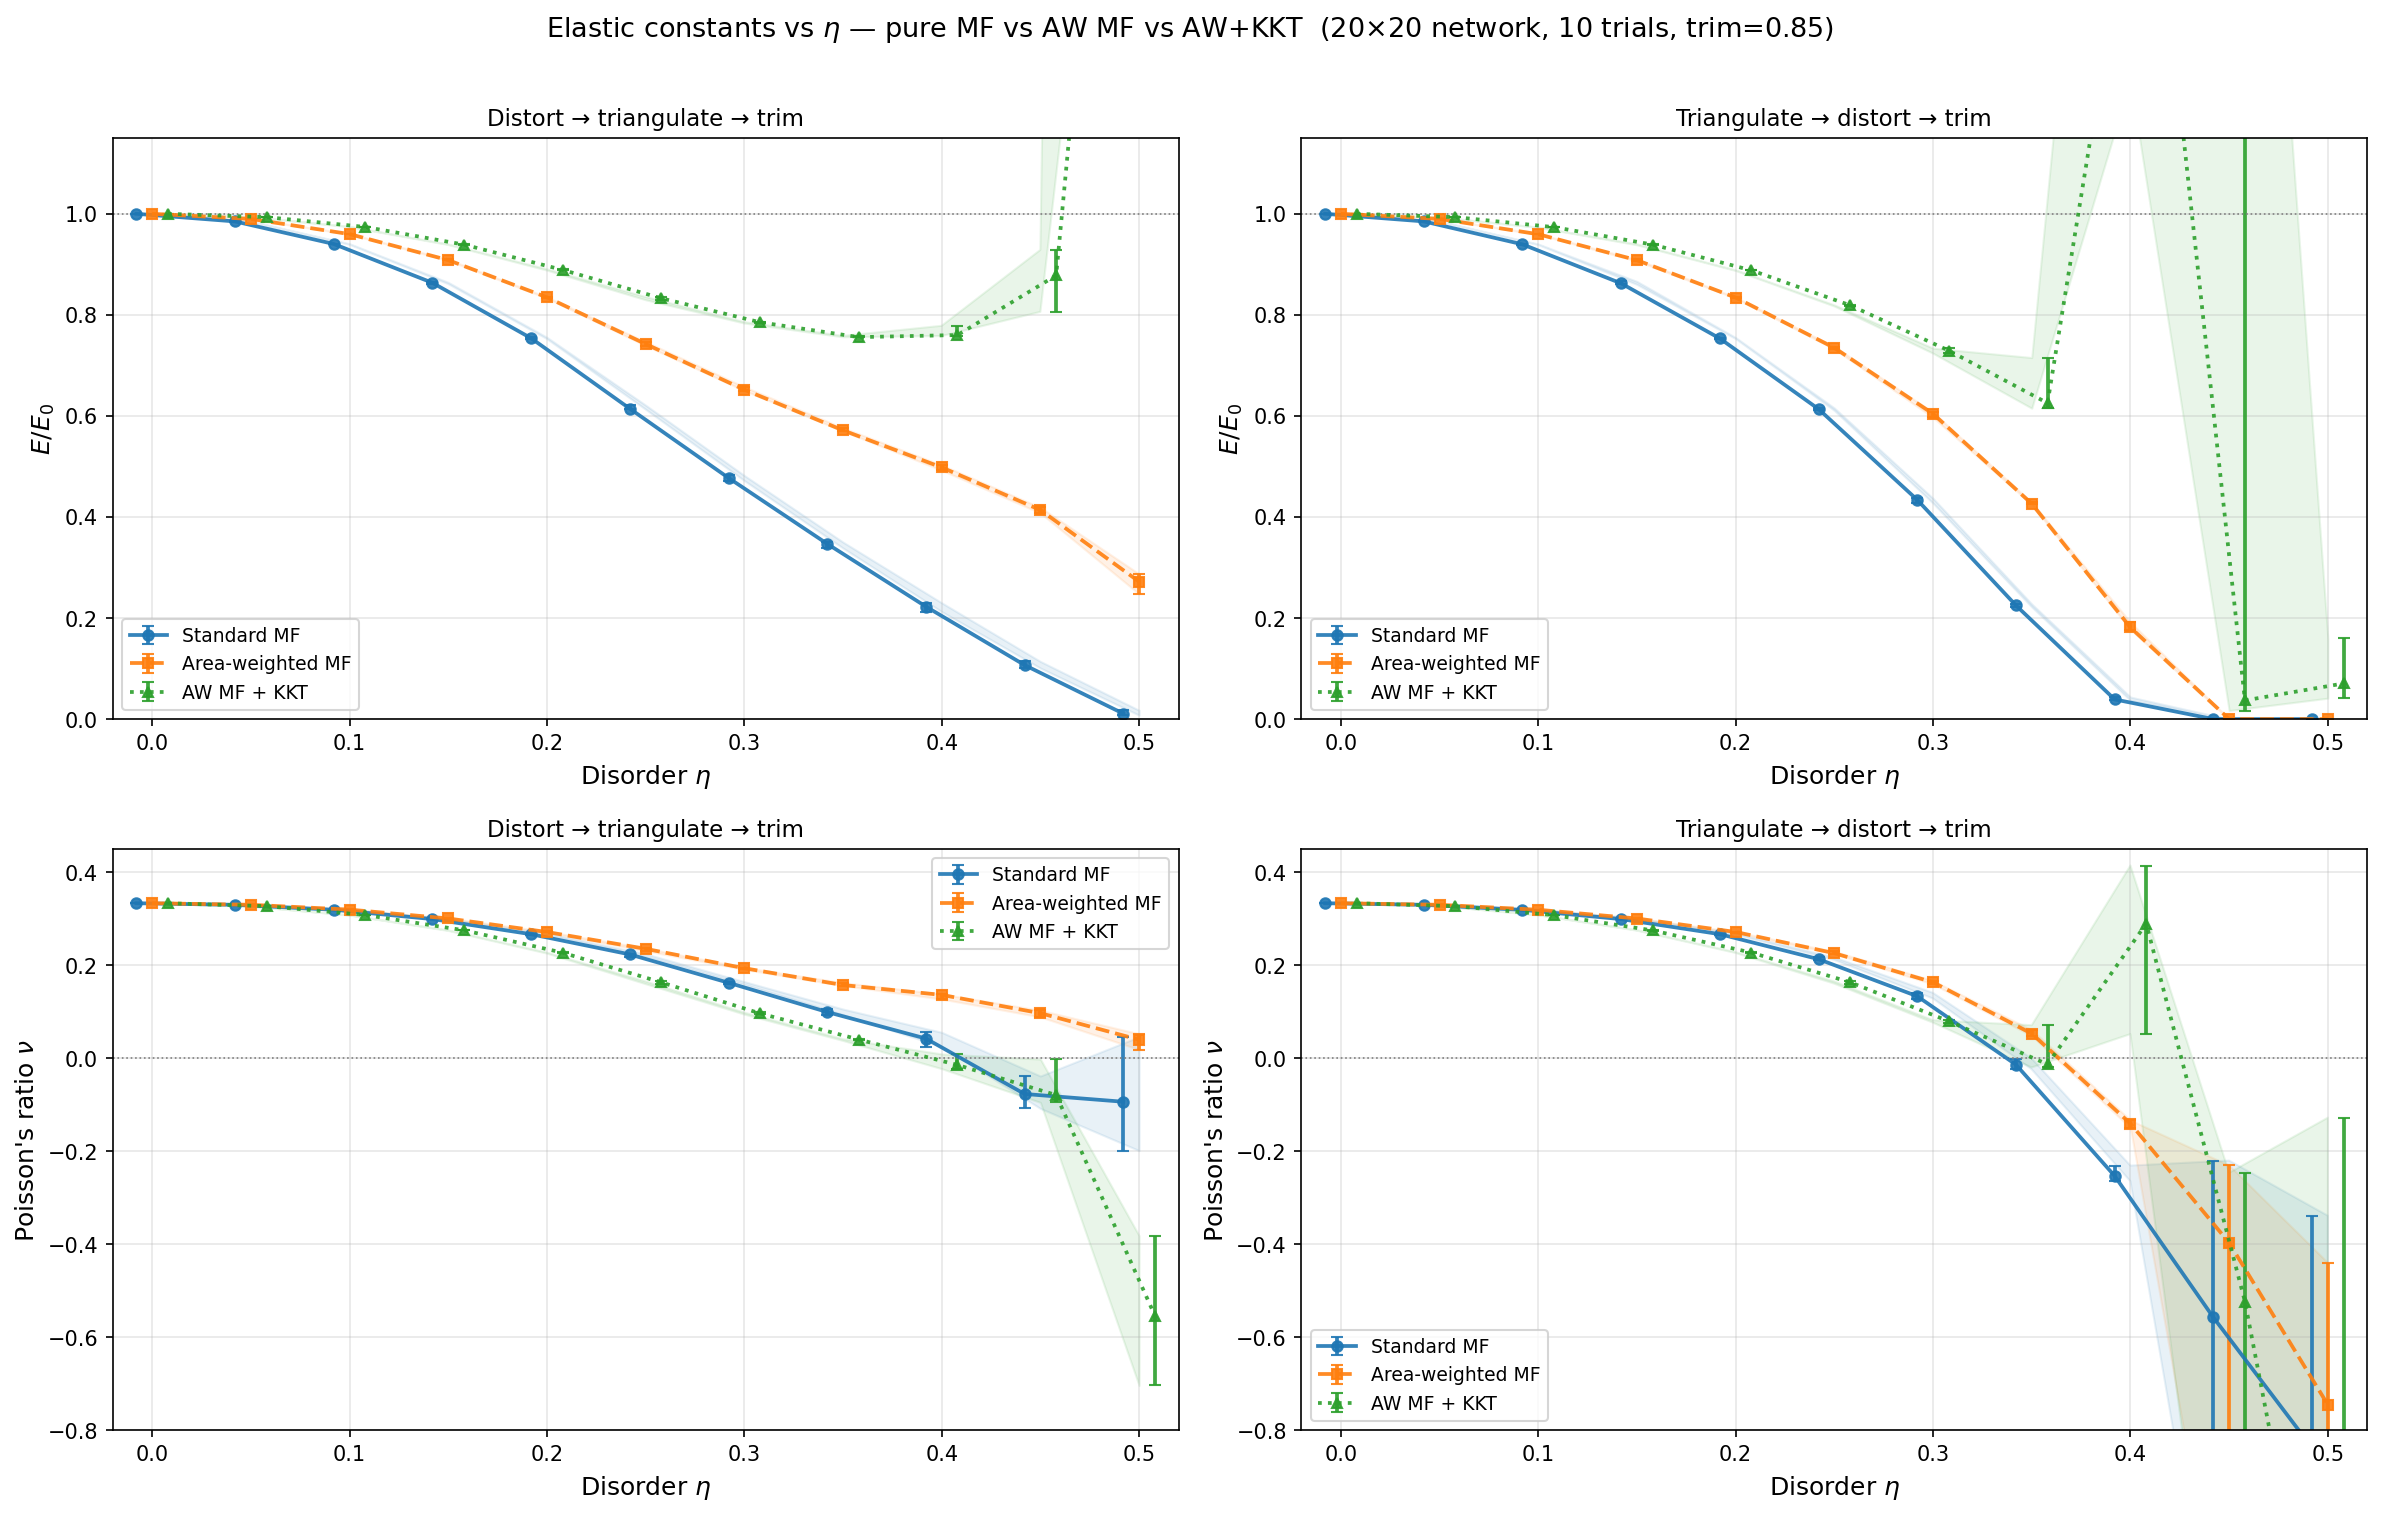
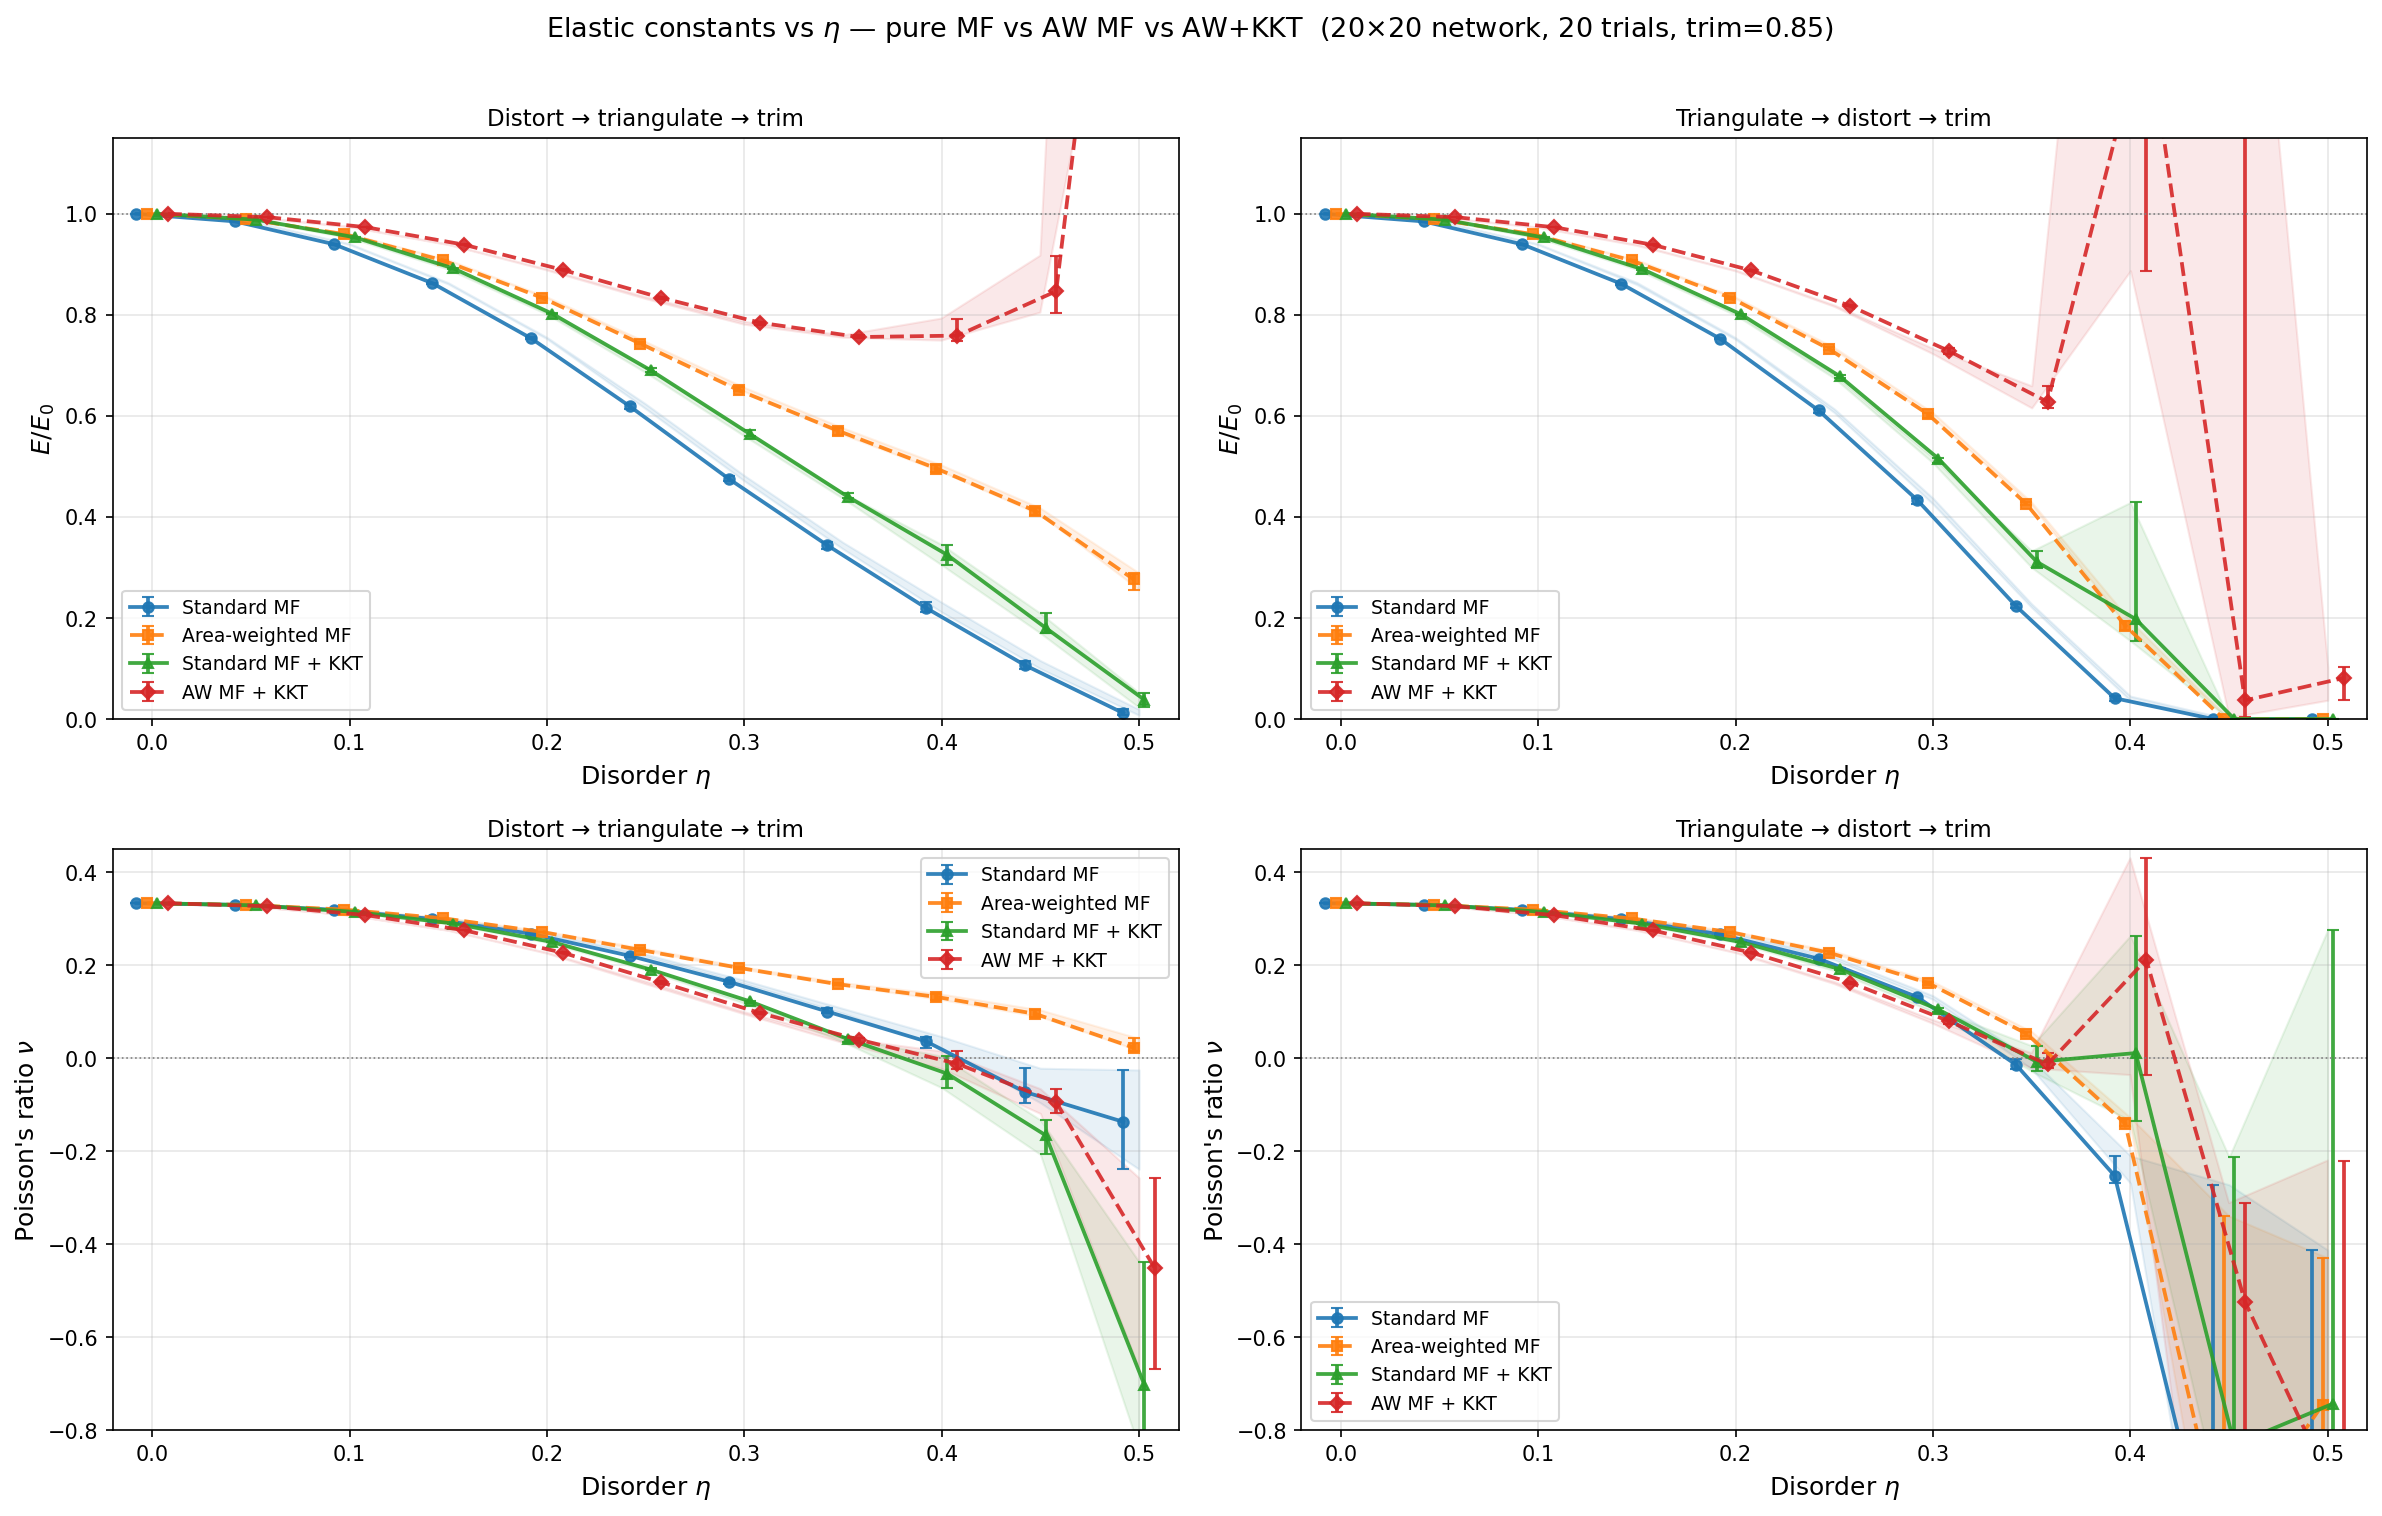
Add standard MF+KKT case; rerun with 20 trials per eta
4 solver variants now: Standard MF, AW MF, Standard+KKT, AW+KKT.
20 realizations per eta value, both mesh types.

Key result (distort-first, eta=0.4, E/E0 | nu):
  Standard MF:       0.22 | +0.04
  AW MF:             0.50 | +0.13
  Standard MF+KKT:   0.33 | -0.03
  AW MF+KKT:         0.76 | -0.01

https://claude.ai/code/session_015phVDszgsK9y7r119GVKi9

diff --git a/benchmarking/run_mf_4panel.py b/benchmarking/run_mf_4panel.py
@@ -25,18 +25,19 @@ import forward_solver_torch as fst
 from forward_solver_torch import _compute_actual_elastic_tensor
 
 ETA_VALUES = np.linspace(0.0, 0.5, 11)
-N_TRIALS   = 10
+N_TRIALS   = 20
 SIZE       = (20, 20)
 TRIM_FRAC  = 0.85
 CACHE      = os.path.join(os.path.dirname(__file__), 'mf_4panel_data.npz')
 OUT        = os.path.join(os.path.dirname(__file__), 'new', 'mf_4panel.png')
 
-# 3 solver variants per mesh
+# 4 solver variants per mesh
 CASES = [
     # (area_weighted, use_kkt, label, color, marker, ls)
-    (False, False, 'Standard MF',      'C0', 'o', '-'),
-    (True,  False, 'Area-weighted MF', 'C1', 's', '--'),
-    (True,  True,  'AW MF + KKT',     'C2', '^', ':'),
+    (False, False, 'Standard MF',        'C0', 'o', '-'),
+    (True,  False, 'Area-weighted MF',   'C1', 's', '--'),
+    (False, True,  'Standard MF + KKT',  'C2', '^', '-'),
+    (True,  True,  'AW MF + KKT',        'C3', 'D', '--'),
 ]
 n_cases = len(CASES)
 n_mesh  = 2   # 0=distort-first, 1=tri-first-then-trim
